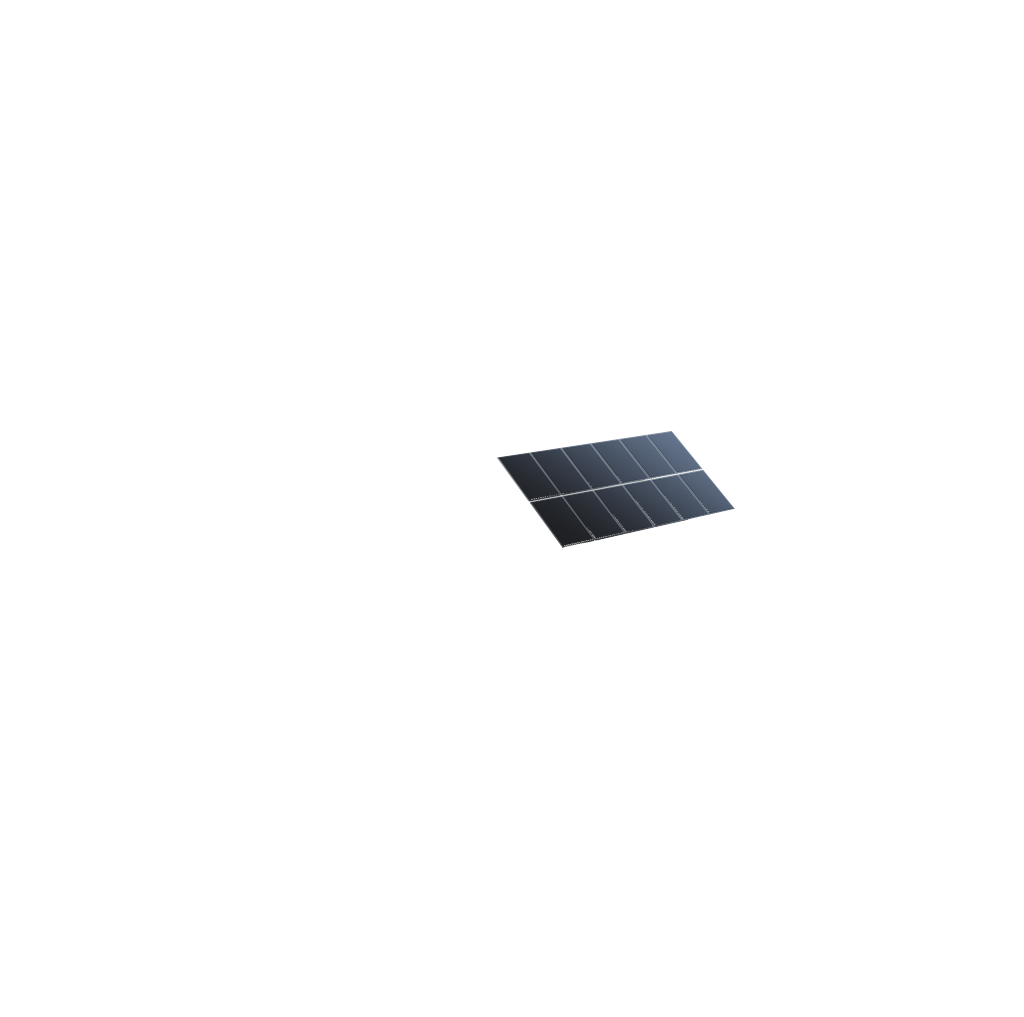
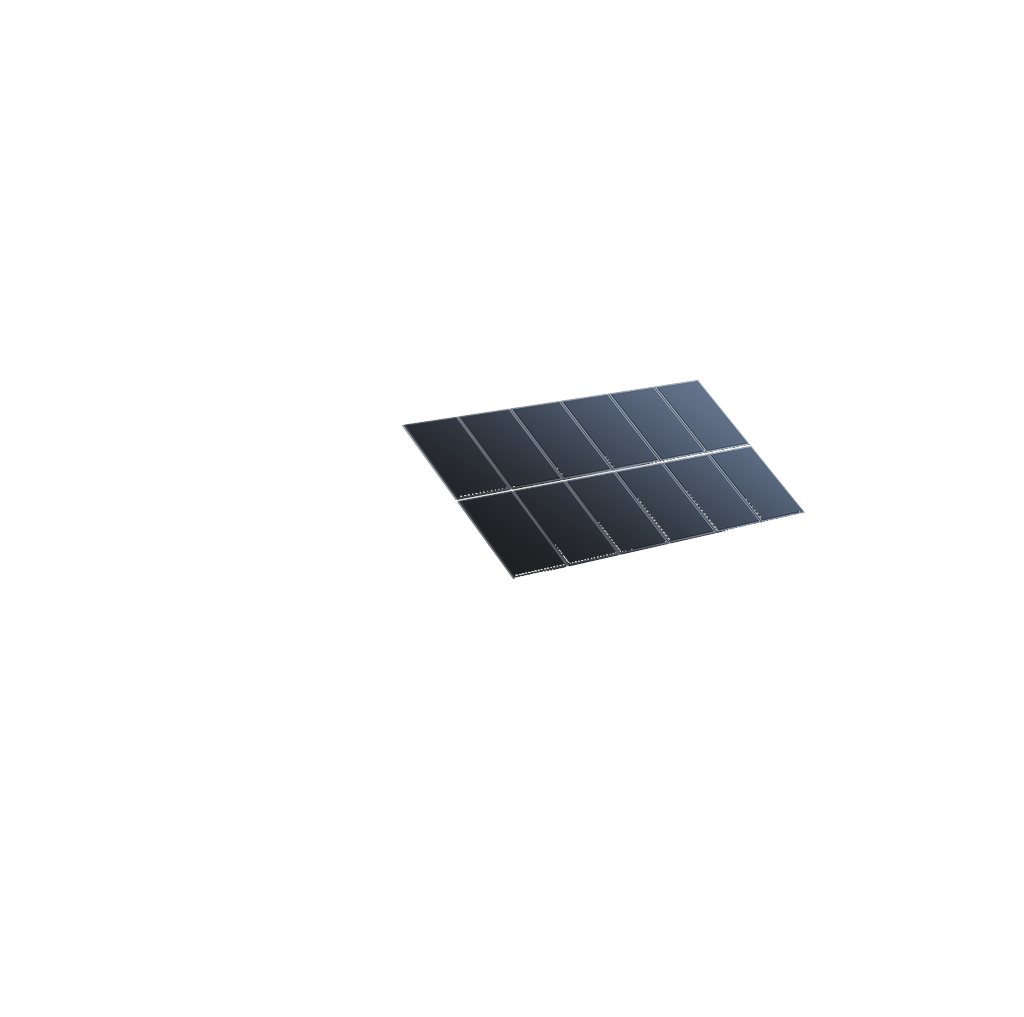
Fix PV scale: 88% inset instead of 52% micro-panels v0.8.92
v0.8.91 shrank panels too far; restore readable 2x6 grid with slight uniform scale and left offset to clear roof edges.

Changed region(s): [[0.375, 0.3658, 0.7812, 0.5792]]

diff --git a/custom_components/foxess_plant/www/foxess-plant-panel.js b/custom_components/foxess_plant/www/foxess-plant-panel.js
@@ -1,7 +1,7 @@
 /**
  * FoxESS Plant panel — HA sidebar app (phases 5a–5e).
  * hass / narrow / panel / route from Home Assistant.
- * @version 0.8.91
+ * @version 0.8.92
  */
 
 const NAV = [
@@ -36,7 +36,7 @@ const FOX_FLOW_PATHS = {
 const FOX_FLOW_HUB_SPOKES = new Set(["solar-aio", "aio-hub", "hub-aio", "hub-home", "grid-hub", "hub-grid"]);
 
 const FLOW_PATHS_VER = "flow-solar-base";
-const PANEL_BUILD_FALLBACK = "0.8.91";
+const PANEL_BUILD_FALLBACK = "0.8.92";
 const PANEL_ELEMENT = `foxess-plant-panel-${PANEL_BUILD_FALLBACK.replace(/\./g, "_")}`;
 
 /** Register current and recent version tags so HACS updates never leave a blank panel. */
@@ -66,7 +66,7 @@ function registerFoxessPlantPanel() {
 const FLOW_STROKE = { base: 5, active: 6, hubR: 8 };
 const FLOW_DASH = "20 24";
 const FLOW_SCENE_PV_THRESHOLD_W = 40;
-const FLOW_SCENE_ASSET_VER = 22;
+const FLOW_SCENE_ASSET_VER = 23;
 
 const FLOW_SCENE_BG_THEMES = new Set([
   "day_light",

diff --git a/tools/bake_flow_overlays.py b/tools/bake_flow_overlays.py
@@ -19,9 +19,10 @@ BOXES = {
     "pv": {"left": 0.388, "top": 0.342, "width": 0.448, "height": 0.242},
     "aio": {"left": 0.312, "top": 0.622, "width": 0.136, "height": 0.222},
 }
-PV_SCALE_INSET = 0.52  # fraction of box-fit scale (native sprite is oversized)
-PV_PASTE_DX = -10  # px left of centred box
-PV_PASTE_DY = 20  # px below centred box
+# ~88% of box-fit: keeps 2×6 legible, fixes native overhang (0.52 was far too small).
+PV_SCALE_INSET = 0.88
+PV_PASTE_DX = -22  # pull left — sprite overhangs right gable at native scale
+PV_PASTE_DY = 10
 
 
 def is_webp(path: Path) -> bool: